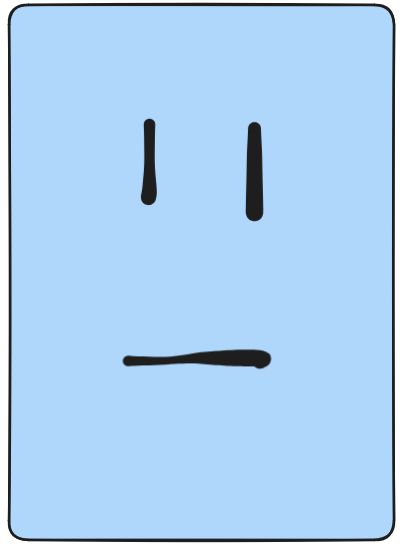
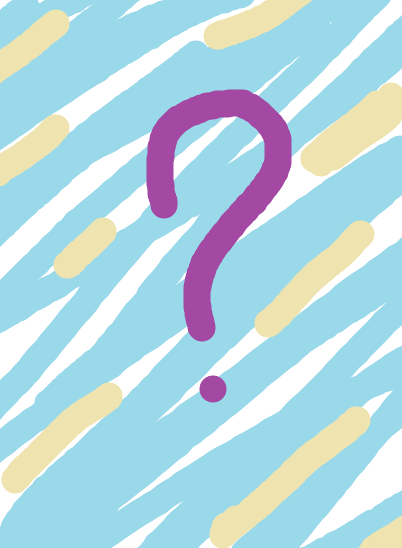
images et fix label

diff --git a/skyjo/src/main/java/fr/upc/cr1a/view/GameBoardView.java b/skyjo/src/main/java/fr/upc/cr1a/view/GameBoardView.java
@@ -345,10 +345,10 @@ public class GameBoardView extends JPanel {
         actionHandPanel = new JPanel(new BorderLayout(0, 6));
         actionHandPanel.setOpaque(false);
 
-        JLabel actionHandLabel = new JLabel("Cartes action", SwingConstants.CENTER);
-        actionHandLabel.setForeground(new Color(255, 224, 120));
-        actionHandLabel.setFont(patrickFont.deriveFont(Font.BOLD, 20f));
-        actionHandPanel.add(actionHandLabel, BorderLayout.NORTH);
+        // JLabel actionHandLabel = new JLabel("Cartes actions", SwingConstants.CENTER);
+        // actionHandLabel.setForeground(new Color(255, 224, 120));
+        // actionHandLabel.setFont(patrickFont.deriveFont(Font.BOLD, 20f));
+        // actionHandPanel.add(actionHandLabel, BorderLayout.NORTH);
 
         actionHandCardsPanel = new JPanel(new GridBagLayout());
         actionHandCardsPanel.setOpaque(false);
